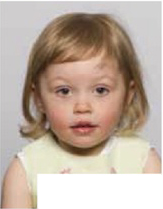
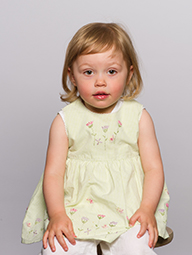
Update photo guide styling and images
- Remove and update styles so all breakpoints use same pattern from mobile up
- Update child guidance photos with new exported photos

diff --git a/assets/sass/modules/_photo-guidance.scss b/assets/sass/modules/_photo-guidance.scss
@@ -33,16 +33,7 @@ h2.guidance {
     font-size: 12px;
     width: 100%;
     @media (min-width: 641px) {
-        position: relative;
-        display: flex;
-        align-items: center;
-        background: #fff;
         font-size: 16px;
-        width: 90%;
-        height: 60px;
-        top: -60px;
-        right: -10%;
-        margin-bottom: -60px;
     }
     .approved {
         background-image: url("../images/icon_thick_tick.svg");
@@ -60,9 +51,8 @@ h2.guidance {
     background-position: right 4px top 4px;
     background-size: 14px;
     @media (min-width: 641px) {
-        width: 100%;
-        padding: 10px 38px 8px 10px;
-        background-position: right 8px center;
+        padding: 8px 38px 8px 0;
+        background-position: right 8px top 8px;
         background-size: 22px;
     }
 }
